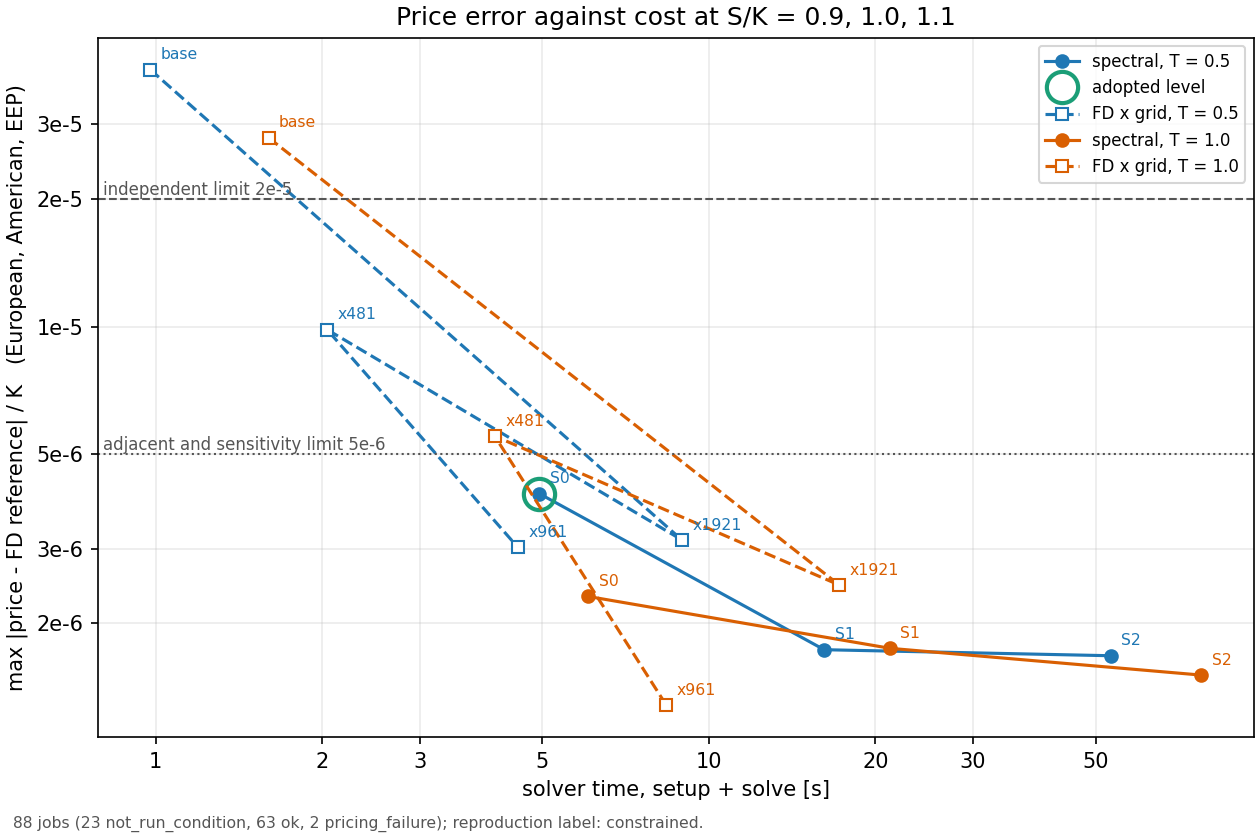
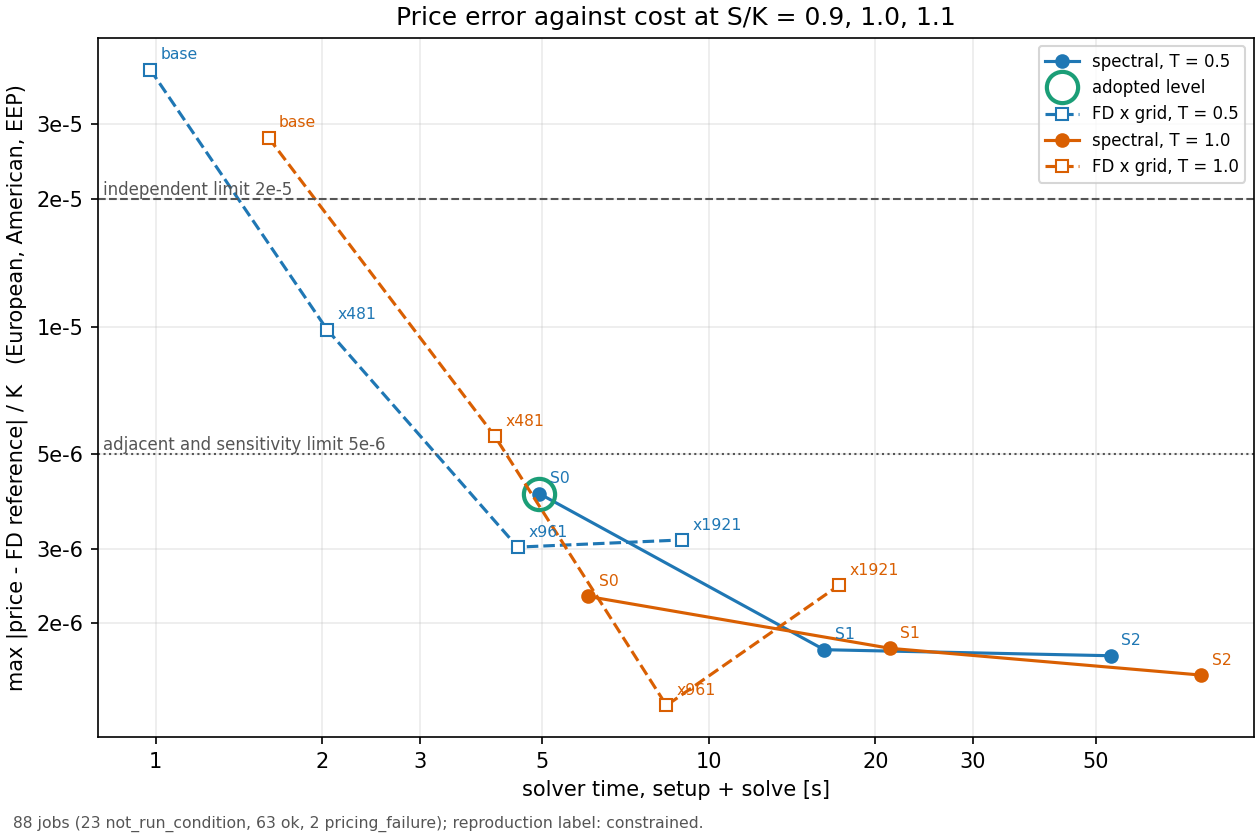
Record the DSINC independent review and fix the cost figure order
The whole-branch review (opus) returned "With fixes" with no Critical finding.
No frozen file (the SOURCE_FILES of run.py) and no computation changed.

- plot.py: order the cost figure's lines explicitly (the FD base grid, then
  481, 961 and 1921 x nodes; the spectral levels S0, S1, S2) and the stability
  figure's rows in protocol order. results.json is saved with sorted keys,
  which had joined the FD x grids as base, 1921, 481, 961. Redraw the cost and
  stability figures; the boundary figure is byte-identical.
- Tests: check the figure orders on results saved with ascending and descending
  keys, and that sensitivities that were not run get no cross mark.
- README: say why T=1 is not achieved (S1 integrates [640,1280] with 12 points),
  that the T=.5 bounds pass depends on the variance grid and the time step, and
  apply the review's small corrections.
- REVIEW.md: the verdict, every finding with its response, the known issues,
  the reviewer's unrecorded measurements and the path to T=1 (D-8).
- ROADMAP, design and plan: status lines, test totals and the scan_spacing claim.

Claude-Session: https://claude.ai/code/session_01Ar2WGjNdqKLuGceywAuPvr

diff --git a/johnhull/research/DSINC/plot.py b/johnhull/research/DSINC/plot.py
@@ -1,9 +1,13 @@
 """Draw the three DSINC figures from the saved results of a main run.
 
 Only ``results.json`` and the arrays it points to are read; nothing is solved or re-judged here.
+``results.json`` is saved with sorted keys, so no order is taken from a saved dict: the lines and
+rows are put in their order here (the ladders of the cost figure, the protocol order of the
+sensitivities).
 
 * ``price_error_cost.png``: the largest price difference to the FD reference against the solver
-  time, for the spectral levels and the finite-difference x grids (log-log, price/K).
+  time, for the spectral levels S0, S1, S2 and the finite-difference x grids (the base grid, then
+  481, 961 and 1921 nodes), log-log, price/K.
 * ``exercise_boundary.png``: the exercise boundary of the judged spectral level against the FD
   bracket of the dedicated fine-time run, with the masked nodes and the failure counts.
 * ``refinement_stability.png``: the difference of every sensitivity, of the next level and of the
@@ -17,6 +21,7 @@ Usage: ``python plot.py --results RUN/results.json --output DIR``.
 import argparse
 import json
 import math
+import re
 import sys
 import textwrap
 from pathlib import Path
@@ -34,6 +39,12 @@ VARIANCE_COLORS = ((0.01, GREEN), (0.04, BLUE), (0.16, ORANGE))
 DISPLAY_FLOOR = 1e-10  # smaller differences are drawn on the left edge of the stability figure
 LOG_TICKS = (1.0, 2.0, 3.0, 5.0)  # labelled ticks of a log axis, times each power of ten
 NO_PRICE = {"color": GRAY, "ms": 9, "mew": 2}  # the grey cross of a check that gave no price
+# The sensitivities in the order of protocol.json (spectral.sensitivities): the rows of the
+# stability figure.  A saved results.json lists them alphabetically.
+SENSITIVITIES = (
+    "crossing_lower", "time_x2", "time_x2_cutoff_x2", "var_next", "points_plus4", "cutoff_x2",
+    "chi_0.25", "chi_0.75", "domain_expand", "offset_plus_half", "offset_minus_half",
+)  # fmt: skip
 
 
 def _tick_text(value: float, _position: int | None = None) -> str:
@@ -84,6 +95,26 @@ def _solver_seconds(row: dict) -> float:
     return (row["setup_seconds"] or 0.0) + (row["solve_seconds"] or 0.0)
 
 
+def _numbered(rows: dict, pattern: str) -> dict:
+    """The rows whose name matches ``pattern`` (one group of digits), by ascending number."""
+    numbers = {name: int(m.group(1)) for name in rows if (m := re.fullmatch(pattern, name))}
+    return {name: rows[name] for name in sorted(numbers, key=numbers.__getitem__)}
+
+
+def _ladders(costs: dict) -> tuple[dict, dict]:
+    """The cost rows of one expiry as two ladders, coarse to fine, in the order a line is drawn.
+
+    The spectral levels come as S0, S1, S2 and the FD x grids as the base grid, then by the number
+    of x nodes (481, 961, 1921).  The dicts of a saved ``results.json`` are in key order, which
+    would join the x grids as base, 1921, 481, 961.
+    """
+    base = {name: row for name, row in costs["fd"].items() if name == "independent-base"}
+    return (
+        _numbered(costs["spectral"], r"S(\d+)"),
+        base | _numbered(costs["fd"], r"independent-x(\d+)"),
+    )
+
+
 def _price_error_cost(verdicts: dict, limits: dict) -> Figure:
     """Price error against solver time: the spectral levels and the FD x grids, per expiry."""
     figure = _new_figure(8.4, 5.6)
@@ -91,13 +122,9 @@ def _price_error_cost(verdicts: dict, limits: dict) -> Figure:
     marked = False
     for index, (expiry, costs) in enumerate(_by_expiry(verdicts["costs"])):
         color = EXPIRY_COLORS[index % len(EXPIRY_COLORS)]
-        x_grids = {
-            name: row
-            for name, row in costs["fd"].items()
-            if name == "independent-base" or name.startswith("independent-x")
-        }
+        levels, x_grids = _ladders(costs)
         for family, rows, marker, line in (
-            ("spectral", costs["spectral"], "o", "-"),
+            ("spectral", levels, "o", "-"),
             ("FD x grid", x_grids, "s", "--"),
         ):
             points = [
@@ -311,7 +338,9 @@ def _refinement_stability(verdicts: dict, limits: dict) -> Figure:
     """The difference of every sensitivity, of the next level and of the reference, with the limits."""
     expiries = _by_expiry(verdicts["selections"])
     checks = [check for _, selection in expiries for check in selection["checks"].values()]
-    names = dict.fromkeys(name for check in checks for name in check["sensitivities"] or {})
+    present = {name for check in checks for name in check["sensitivities"] or {}}
+    names = [name for name in SENSITIVITIES if name in present]
+    names += sorted(present - set(names))  # a sensitivity the protocol does not list goes last
     rows = [(name, "sensitivity") for name in names]
     rows += [("next level (adjacent)", "adjacent"), ("FD reference (independent)", "independent")]
     figure = _new_figure(6.6 * len(expiries), 6.0)
@@ -420,10 +449,6 @@ def draw(results_path: Path, out_dir: Path) -> list[Path]:
     return paths
 
 
-SENSITIVITIES = (
-    "crossing_lower", "time_x2", "time_x2_cutoff_x2", "var_next", "points_plus4", "cutoff_x2",
-    "chi_0.25", "chi_0.75", "domain_expand", "offset_plus_half", "offset_minus_half",
-)  # fmt: skip
 FAILED_SENSITIVITIES = ("crossing_lower", "time_x2")  # the S1 variants without a price at T = 1
 COSTS = (("S0", 3.9e-6, 3.8, 1.2), ("S1", 4.4e-6, 11.1, 6.7), ("S2", 4.9e-6, 29.8, 22.4))  # fmt: skip
 X_GRIDS = (("base", 8.0e-5, 0.2, 0.5), ("x481", 2.5e-5, 0.6, 1.4), ("x961", 7.0e-6, 1.4, 3.0), ("x1921", 1.5e-6, 3.1, 5.6))  # fmt: skip

diff --git a/johnhull/hullkit/tests/test_dsinc_runner.py b/johnhull/hullkit/tests/test_dsinc_runner.py
@@ -368,6 +368,8 @@ def test_stability_figure_tells_a_failed_check_from_sensitivities_not_run(tmp_pa
     assert not any("no price" in text for text in legends[0])
     assert "no price (pricing_failure)" in legends[1]  # ran without a price: a grey cross
     assert not any("not run" in text for text in legends[1])
+    drawn = [line for line in left.lines if line.get_marker() == "x" and len(line.get_xdata())]
+    assert not drawn  # nothing at T = 0.5 ran without a price: sensitivities not run get no cross
     rows = [text.get_text() for text in right.get_yticklabels()]
     crosses = [line for line in right.lines if line.get_marker() == "x" and len(line.get_xdata())]
     assert sorted(line.get_ydata()[0] for line in crosses) == pytest.approx(
@@ -392,6 +394,33 @@ def test_boundary_and_cost_figures_label_what_they_draw(tmp_path):
     for axis, (low, high) in ((cost.xaxis, cost.get_xlim()), (cost.yaxis, cost.get_ylim())):
         ticks = [t for t in axis.get_majorticklocs() if low <= t <= high]
         assert len(ticks) >= 4  # enough labelled ticks to read a value off a log axis
+
+
+def test_figure_orders_do_not_depend_on_the_key_order_of_saved_results(tmp_path):
+    plot = load(PLOT, "dsinc_plot_order_tests")
+    saved = json.loads(plot.synthetic_results(tmp_path).read_text())
+    protocol = json.loads((PLOT.parent / "protocol.json").read_text())
+    sensitivities = protocol["spectral"]["sensitivities"]
+    assert list(plot.SENSITIVITIES) == sensitivities  # the rows follow the protocol
+    text = json.dumps(saved, sort_keys=True)  # run.py saves results.json with sorted keys
+    ladder = [f"independent-{name}" for name, *_ in plot.X_GRIDS]  # base, x481, x961, x1921
+    for hook in (dict, lambda pairs: dict(reversed(pairs))):  # keys ascending, then descending
+        loaded = json.loads(text, object_pairs_hook=hook)
+        verdicts, limits = loaded["verdicts"], loaded["thresholds"]
+        assert list(verdicts["costs"]["0.5"]["fd"]) != ladder  # the saved order is not the ladder
+        cost = plot._price_error_cost(verdicts, limits).axes[0]
+        lines = {line.get_label(): line for line in cost.lines}
+        for scale, expiry in ((1, "0.5"), (2, "1.0")):
+            fd, spectral = lines[f"FD x grid, T = {expiry}"], lines[f"spectral, T = {expiry}"]
+            assert list(fd.get_xdata()) == pytest.approx([s + t for _, _, s, t in plot.X_GRIDS])
+            assert list(fd.get_ydata()) == pytest.approx([e * scale for _, e, _, _ in plot.X_GRIDS])
+            assert list(spectral.get_xdata()) == pytest.approx(
+                [scale * (s + t) for _, _, s, t in plot.COSTS]  # S0, S1, S2
+            )
+            assert list(spectral.get_ydata()) == pytest.approx([e for _, e, _, _ in plot.COSTS])
+        stability = plot._refinement_stability(verdicts, limits).axes[0]
+        rows = [label.get_text() for label in stability.get_yticklabels()]
+        assert rows == [*sensitivities, "next level (adjacent)", "FD reference (independent)"]
 
 
 def job_of(roster, method, level, variant, expiry):

diff --git a/johnhull/research/DSINC/REVIEW.md b/johnhull/research/DSINC/REVIEW.md
@@ -1,0 +1,126 @@
+# DSINC 全体の独立レビュー
+
+2026-10-27。branch `claude/dsinc-american` の全体を、opus が独立にレビューした（[実施計画](../../docs/superpowers/plans/2026-10-25-dsinc-american.md)のTask 8のStep 6にあたる）。レビュアーは実装者とは別のagent（opus）で、差分・run root・README・台帳を読み、一部を作業用に再計算した。
+
+- 範囲：`cb39e4d5669fb85416cc77228e85aa309b4904c1..9b45bb82ad21607d33c94f8d7e5ca0e75e180ba2`。`cb39e4d5`はmainで、`9b45bb82`はmainの結果とREADMEの是正まで。
[1 lines of base64/hex data omitted]
+- 主run root：`/home/kazumasa/projects/_data/johnhull/DSINC/main-20261027T001446Z`。通ったpilot：`/home/kazumasa/projects/_data/johnhull/DSINC/pilot-20261026T235315Z`。どちらもGit管理外で、レビューも修正も読むだけで、書き換えていない。
+
+## 判定
+
+**With fixes**。致命的な指摘は0件、重要な指摘は3件、軽微な指摘は14件。凍結ファイル（`run.py`の`SOURCE_FILES`）の変更も、spectral・FDの再計算も要らない。直したのは、(1)費用の図のFDの線の順、(2)READMEの説明不足2点、(3)小さな文書の不一致である。修正はこの文書と同じコミットに入っている。
+
+## レビューが再確認したこと
+
+- 数式：減衰変換k=−ω−iχ、min(1,e^x)の変換−1/(s(1+s))と留数項、g·1{x≤b}−rdの変換、EEPの再帰（t_Nは半重み、t_0は重みなし、端点dt·g/4は境界の式だけ）、残差R_n。独立に導出して、実装と一致した。
+- 根探し：計画のTask 5の擬似コードどおり（幅.1・.2・.3・.5、δ、最上位の+→−交差、ambiguous_contact、wrong_orientationで停止）。
+- 独立FD：IE半歩4回＋CN、LU 1回、Ikonen–Toivanen。spectral側をimportしない。
+- gates：純関数。D-3の参照、軸の収束、境界gate、D-7の`select_level`は計画どおり。
+- 再現性：mainの`replay`は`{"match": true, "differences": []}`。`verify_freeze`はリポジトリとrun rootの両方のmanifestでOK（`d3685d17…`）で、`freeze_sha256`が一致。`results/results.json`はrun rootの`results.json`とバイト一致（export）。`SOURCE_FILES`は`7551a37f`から不変で、上流のhashもmanifestどおり。pilotとmainに共通のjob 28件は、価格28件と配列18組がどちらも一致。0化の有無で、S0のT=.5・T=1の配列とタイミング以外の診断がビット一致。
+- 判定の再計算：recordsから再計算して一致した。`reproduction_label`は`constrained`、paper_matchの最大差は3.43e-7。T=.5はS0を採用（隣の段2.31e-6、独立FD 4.04e-6、感度2.23e-6、上下界の最小-1.54e-5・S/K=0.832）。T=1は採用なし。境界gateは両満期でpass（1.027セル・3888節点、0.511セル・7728節点）。FDのずれ1.0000000000000675は、上限1に許容1e-9を足した範囲の内。88件はok 63、`not_run_condition` 23、`pricing_failure` 2。jobのwall合計は781.8秒で、okの実測は見積もりの0.37〜0.87倍。
+- 文書とテスト：READMEの約40か所の数値と、費用表のFDの行が一致。DSINCのテスト137件、`test_docstrings.py`と`test_model_index.py`の933件、`ruff check`・`ruff format --check`は、レビュー時点でクリーン。
+
+## 指摘と対応
+
+対応の区分：**修正**はこのコミットで直した、**文書**はREADMEなどに書いた（コードは変えない）、**既知**は直さずに記録した。
+
+### 重要
+
+| # | 指摘 | 対応 | 場所 |
+| --- | --- | --- | --- |
+| 1 | 費用の図でFDのx格子の線が誤った順（base→1921→481→961）に結ばれていた。`results.json`は`sort_keys=True`で保存されるので、dictの順がアルファベット順になる。READMEの説明（base、481、961、1921）とも合わず、テストでも検出できなかった。 | **修正**。FDはbaseの次にx節点数の昇順、spectralはS0・S1・S2の順に、`plot.py`で明示した。`plot.py`のdict順への依存を監査し、細分の図の行（感度の名前）も同じ原因でアルファベット順だったので、protocolの順にした。ほかの反復は`sorted`・リテラルのtuple・キー参照で、順に依存しない。`sort_keys=True`で保存した合成の結果で線と行の順を検査するテストを足した。3枚のPNGを`results/results.json`から描き直した（境界の図はバイト一致のまま、費用の図と細分の図が変わった）。run rootの`results.json`から描いても、3枚ともバイト一致。 | `plot.py:44-48`（`SENSITIVITIES`）、`:98-115`（`_numbered`、`_ladders`）、`:125`、`:342-343`。`test_dsinc_runner.py:399`。`figures/`。README「図」（:283-:295） |
+| 2 | T=1の失敗の原因（S1が[640,1280]のパネルを12点で積分すること）がREADMEに書かれていない。load-bearing：yes（T=1の判定を決める）。ただし設計どおりの値で、凍結コードの欠陥ではない。 | **文書**（再実行なし）。仕組み、recordsの5つのjobの多重交差と交差の距離、14件がすべて12点の[640,1280]のパネルを持つこと、S1−S2の差とそのうち16点で消える分を、run rootの記録から再計算して書いた。D-1の影響は、S0は確かめた（crossing_lowerの差は0）、S1は未確認（jobの失敗）と書き分けた。Ruling T7R-bの「load-bearingなら再実行」は、機械的には当てはめない：設計の値の帰結で、欠陥ではない。変えるなら新しい逸脱（D-8）で、ユーザーの承認とpilot→freeze→mainのやり直しが要る（Ruling F-a・F-b）。 | README「T=1が未達になる理由」（:197-:217）、「未検証の範囲」のT=1（:301）と多重交差（:313）。「T=1への道」は下記 |
+| 3 | T=.5の上下界のpassが分散格子の位置に依存するが、書かれていない。D-7は各段のbase jobにだけ上下界を当てる。 | **文書**。S0のT=.5の変種に`gates.bounds_check`を記録の価格で当て直し、offset_plus_half・offset_minus_halfが-2.606e-5（S/K=0.834、許容超え）、baseが-1.539e-5、time_x2が-7.10e-6、points_plus4が不変であることを書いた。T=.5の余裕は0.46e-5で、v0への補間のほか、分散格子の位置と時間刻みにも依存する。判定は変わらない。レビューが挙げた5.3e-10はoffset_plus_halfの値で、offset_minus_halfは5.76e-10。レビューが挙げていないvar_next（T=.5で-1.88e-5、許容との差1.2e-6）とT=1の変種（time_x2 -1.30e-5、var_next -1.76e-5は通る）も、同じ手順で再計算して足した。 | README :185、「未検証の範囲」の「境界近傍のspotでの補間誤差」（:303-:310） |
+
+### 軽微
+
+| # | 指摘 | 対応 | 場所 |
+| --- | --- | --- | --- |
+| 1 | READMEの「診断の全出力がビット一致」はタイミングの診断を含めると不成立。0化の時間は作業用の計測で、run rootにない。「0にして保存する」はディスクへの保存に読める。 | **修正**。「タイミング以外の診断」、「作業用の計測（記録なし）」と書き、「0に置き換え、以後の計算にはこの行列を使う」にした。 | README :55 |
+| 2 | README「783秒」はcontrollerの作業用ログにしかない。 | **修正**。781.8秒（`accounting.wall_seconds`）を残し、783秒はrunnerが画面に出した値で記録にないと書いた。 | README :78 |
+| 3 | 「独立レビューはこの後」が古い。 | **修正**。レビュー済み（With fixes）と、この文書へのリンクにした。 | README :5。設計の状態行、計画の状態行も同様 |
+| 4 | Deltaの幅4.1e-7がどのspotか書かれていない。 | **修正**。S/K=.9の値で、S/K=1と1.1ではspectralが2.0e-6と2.0e-6（FDも2.0e-6と2.0e-6）と書いた。 | README :302 |
+| 5 | ROADMAPのDSINCのテスト件数と全体の件数が古い。 | **修正**。全体のsuiteを修正後に走らせて、件数を写した。レビュー済みと、次はユーザーの統合の判断と任意のD-8であることも書いた。 | `ROADMAP.md` :26、:120 |
+| 6 | 未実行の感度に×を描く変異が、既存のテストで生き残る。 | **修正**。左のパネルに×の線がないことを検査した。`if name not in found: continue`を外して欠けた値をなしとして描く変異は、追加前のテストでは通り、追加後は落ちる。 | `test_dsinc_runner.py:371-372` |
+| 7 | 設計§1の「着手済みと扱わない」に、2026-10-25時点という限定がない。 | **修正**。2026-10-25時点の依頼範囲と、実装が2026-10-26に始まったことを足した。 | 設計 :7 |
+| 8 | 計画の「従来どおり」に指す先がない。 | **修正**。直前の提案の規則（False・欠落・Noneは不合格）を指すようにした。 | 計画 :108 |
+| 9 | 計画の「δはm点則より常に細かい」は誤り。 | 計画の文は**修正**。コードは**既知**。最初のbracketが0で切られてhi−loが.1をわずかに超えると、δはS1で最大1.22%、S2で最大0.61%粗い（最上位の節点をω_maxとすると0.75%と0.35%）。S0は影響なし。この数値は`protocol.json`のS1・S2の設定とGauss–Legendreの節点から再計算した。コード（`_dsinc_american.py:116-121`）は凍結で、load-bearing：no（下記「レビュー時の作業用の計測（記録なし）」の最後の項目）。 | 計画 :1230 |
+| 10〜14 | 下記「既知の項目」 | **既知** | 下記 |
+
+## 既知の項目（修正しない）
+
+凍結ファイルは、Ruling T7R-bにより、load-bearingでなければ直さない。以下はどれも、判定にも、READMEの数値にも影響しない。
+
+### 最終レビューの軽微な指摘 10〜14（凍結ファイル）
+
+- 10：`run.py:1550-1567`の`replay`は、protocolと配列のhashは照合するが、`SOURCE_FILES`のhashと`freeze_sha256`は照合しない。`verify_freeze`で別に確認した。
+- 11：`run.py:478-484`、`:779`。RSSは事後の`ru_maxrss`で判定する。最大は688 MiB、上限は2 GiBで、超過は起きていない。
+- 12：境界gateの`max_root_residual`は、二分法の受理条件で上限が決まる量で、独立な検査ではない（台帳:102と同じ）。独立にするには、根で価値一致を`inverse_sum`から評価し直す。
+- 13：`run.py:1335`。T=1の`independent_validated.boundary`の`"pass"`は、採用されていないS0の値である。READMEの「判定の要約」と「境界gate」に、採用段ではないと書いた。
+- 14：T7R-dの凍結docstringの細部。`gates.py:241-243`（「, which names the level」の読み方があいまい）、`gates.py:221`（注釈がdictで、Mappingではない）、`_dsinc_spectral.py:226-227`（測定した1つの場合を、条件を付けずに述べている）。
+
+### 台帳から持ち越した項目（トリアージはkeep as known）
+
+行番号は[台帳](../../../.superpowers/sdd/2026-10-25-dsinc-american/progress.md)のもの。
+
+- :59 `test_dsinc_types.py`：expiry=0・rf=0の受理、listからtupleへの変換、`canonical_digest`のndarrayとNumPyスカラの枝、`FAILURE_CODES`と`PricingResult`のフィールド名を固定するテストがない。
+- :68〜:72 `heston_baseline.py`：(:68)出力の一部・clip_low・許容での停止・safe_nanの非有限側にテストがない。(:69)referenceのkeyの検証が両solverを走らせた後（:318-327、呼び出し:440）。(:70)上流`_heston_cf`の|lam1|<1e-12の置換を数えていない。(:71)カウンタの意味がレポートにしかない。(:72)adapterがT=0でValueErrorにし、`dsinc.extremes`を足す（ブリーフのkey一覧との差）。診断専用で、判定に使わない。
+- :75 計画の件数：Ruling T2-bでTask 2が17件になり、計画の「残りの14件」「16」「99」が古い。
+- :76 `heston_baseline`のdrift guardは、`# audit`の行そのものと、他の上流メソッドの新しいoverrideを見ない。
+- :81・:82 Task 3のテスト：追加分（非一様・2次元の格子の拒否、fixtureの配列、expiry=0のbuild、読み取り専用の配列、T=0でpropagatorsを渡す場合）にテストがない。`test_european_rejects_bad_inputs`に`match=`がなく、strike=100のケースは例外が出ないことしか見ない。
+- :89〜:91 FDのテスト：障害物のテストの断言が構成上ほぼ真で、厳密なamerican > europeanがない。`left`（x_min側だけと結合する最初の内部行の残差）とブリーフを超えた検証にテストがない。FDの解に`isfinite`の検査がない（NaNは伝わるが、gateが落とす。全FD jobはok）。`reference_fd.py:117`・`:240`が100字を超える。`size`が2つの意味で使われる（:236、:336）。
+- :97 `scan_spacing`のコード（`_dsinc_american.py:116-121`）：δがm点則より粗くなる場合がある（上のMinor 9）。計画の文は直した。
+- :98 S1・S2の多重交差の数：計画のD-1の数（3,016と3,861）と実装の数（T=.5で3,371と5,253）が違う。最大のvは1.87e-3と3.02e-3で、窓の下限0.01より下。S0は一致する（58）。S1・S2の数は、重要な指摘2の雑音で決まる。
+- :102 境界の根の残差が独立でない（上のMinor 12）。
+- :103 見積もりの範囲：同一設定の見積もりは、同じプロセスの中のsetup+solve（計画の式）で、インタプリタの起動・import・保存を含まない。S2のT=1の見積もり152秒は、見積もりの上限180秒まで約15%の余裕。実測は見積もりの0.37〜0.87倍だった。
+- :104 のうちNaN・Infが0化で触れられないことを固定するテストがない（READMEの部分はMinor 1、docstringはT7R-aで直した）。
+- :105・:106 `_dsinc_american`：一部だけ失敗するスライス、空のspots、`premium_with_boundary`の形の検査、`crossing="lower"`の通し、nonfiniteがambiguousより上位であること、bracket端と二分法での非有限、`_SliceResidual`と`inverse_sum`の一致にテストがない。`premium_with_boundary`が契約とpropagatorsの整合（dt·n_timeとexpiry）を検査しない。スライスごとに`at`の呼び出しが1回余る（:540）。ruffが折り返した行末コメントがある。
+- :117 `gates.py`：追加分（`root_failure_in_window`、`fd_unconfirmed`、`no_targets`、`paper_match`が全部`not_available`のときのValueError、`bounds_check`の`*_spot`キー、`select_level`のNone・非有限の経路、`axis_convergence`の`order_out_of_range`）にテストがない。数値の文字列が`max_root_residual`の検証を通る。`select_level`の型ヒントがdocstringより狭い。`axis_convergence`のh検査が最初の要素だけを読む。`fd_reference`のndim検査は何もしない。`boundary_gate`のreasonsがpassでも空でないことがある（geometry_invalid）。判定は再計算で一致した。
+- :125 `plot.py`が`gates`の`_edge_at`と幾何maskを複製している（図だけがずれる危険）。ほかに、子プロセスがrootを`--out`の2階層上から決めて`<root>/jobs`を確かめない（`run.py:1585`）、採用段がないときにS0の境界の配列を書き出す（図に必要）、`freeze_manifest.json`と`pilot_summary.json`がcompact JSONで1行、T6-bの147点bounds・`independent_validated`・`nonmonotone_effect`・`reproduction_label`の組み立て・`evaluate("pilot")`・`basis()`・`not_run_condition`だけの場合・実サブプロセスの`pricing_failure`のテストがない、1.0秒のfixture wallが負荷で不安定になりうる（`test_dsinc_runner.py:97`）、`plot.py`に100字を超える`# fmt: skip`の行がある、感度のpanelのリストをaliasで書き換える（`run.py:189, 200, 210`）。
+- :129 freeze周り：`source_sha256`のないsummaryは照合されない（CLIのsummaryには必ず付く）。hashをrosterの後に取るので、600秒以内のpilot中の編集は見つからない。`try`が`_record`も囲むので、`_record`の不具合がlauncherの失敗として報告される。
+- Parked 7R #6：S1の条件付き感度は、S1が上下界でも落ちるときも走る（予算だけの問題。D-5は変えない）。#7：runnerのテストが`arrays=None`を使う（boundsは記録の価格だけで決まる）。
+- T7R-d：凍結docstringの細部（上のMinor 14）。
+- T1-a：`51a79a3c`のトレーラーが、Sonnetが書いたコミットにOpusの行を付けている。直すには履歴の書き換えが要り、ユーザーの承認事項。
+
+台帳のほかの項目は、直した、または解決済みである：:60は設計:7（Minor 7）、:61・:83はT7R-a、:84・:160は先のコミット、:175の5項目はMinor 1〜6。
+
+## レビュー時の作業用の計測（記録なし）
+
+レビュアーが、凍結したモジュールをimportし、1パネルの点数だけを変えて行った計測である。run rootにもリポジトリにも記録がない。値はレビューの報告から写したもので、このコミットでは再計算していない。READMEとROADMAPの数値には使わない（READMEは、recordsから再計算できる値だけで書き、この節を指す）。
+
+- 節点0（v=2.0e-4）の最初の歩で、R(−0.1)=−1.5e-5、R(−0.2)=−1.1e-4。bracketの下端でRが負になる（正でなければならない）。
+- bracketの幅が0.3まで広がり、そこに43個の交差がある。
+- `crossing_lower`は遠い交差（−0.294、次に−0.589）を選び、3歩目で59節点が`wrong_orientation`になる。
+- `time_x2`は、採用した根より0.125下の、雑音による零の連続で`ambiguous_contact`になる。
+- 24点・48点で再計算すると、失敗した2本（`crossing_lower`、`time_x2`）はどちらも完走した。baseは12節点・spread 0.0037、`time_x2`は248節点・0.0135。`time_x2`とbaseの価格差は最大5.3e-7。24点と48点のどちらの値かは、レビューの報告に分けて書かれていない。
+- 走査格子をずらしても、`crossing_lower`の失敗は再現した。失敗の原因は、走査の刻みδの粗さではない（Minor 9のload-bearing：noの根拠）。
+
+## 判断しなかったこと（レビュアーが範囲外とした項目）
+
+- 論文PDFの式との一字一句の対応。独立導出と、表との照合（最大差3.43e-7）で確認した範囲に限る。
+- 閾値とD-1〜D-7の妥当性（ユーザー承認済み）。
+- 上流Heston監査の網羅性。
+- 全体テストの再実行。
+- `ru_maxrss`のLinux以外での意味。
+- 上流コードのMITライセンス。
+- Codex側のbranch（Ruling P1）。
+- パラメータの経済的な意味。
+- 速度の主張（READMEは速度を主張していない）。
+- v0補間の代替案で、境界近くの上下界のdipが消えるか。
+- S1を16点・24点に変えたときに、T=1の全gateが通るか。計算したのは、失敗した2本とbaseだけである。
+
+## T=1への道（ユーザーの判断）
+
+- T=1の未達は、凍結した規則の下での正しい判定である。規則・閾値・根探しを変えて通すことはしない。T8-cで最後に示す予定だった「根探しの変更」は、雑音から決まった根をそのまま通すことになるので、示さない（Ruling F-b）。
+- 通すには、S1の1パネルの点数を増やす（D-8、案。例：12→16または24）。設計§6のS1の設定の変更なので、新しい逸脱で、ユーザーの承認が要る。承認後に、pilot→freeze→mainをやり直す（READMEの「再実行」：pilot約5分、main約13分。S1の費用は点数とともに増えるので、mainの予算30分に収まるかは、新しいpilotの見積もりで決まる）。
+- 手がかり：recordsでは、S1を16点にしたjob（points_plus4、T=1）の交差の距離は0.098で、12点の0.293より小さい。作業用の計測では、24点・48点でbaseの距離が0.0037になった。
+- 確かめていないこと：16点・24点のS1が、T=1の全gate（隣の段、参照、感度11本、上下界）を通るか。通らなければ、D-8でもT=1は未達のまま残る。
+
+## このコミットでの確認
+
+- 費用の図のFDの線：`sort_keys=True`で保存した合成の結果で、旧`plot.py`では線がbase、1921、481、961の順になって落ちる。修正後は通る。細分の図の行がprotocolの順になることも、同じテストで見る。
+- 3枚のPNGは、`results/results.json`とrun rootの`results.json`のどちらから描いても、バイト一致した。境界の図はこのコミットの前後でバイト一致で、費用の図と細分の図が変わった。
+- DSINCのテスト（7ファイル）：138 passed（types 33、baseline 17、spectral 22、reference 11、american 18、gates 15、runner 22）。`test_model_index.py`と`test_docstrings.py`：933 passed。
+- 全体：`pytest -q johnhull/hullkit/tests johnhull/report/tests`（RB-F04の`test_paths_match_the_rbf04_v1_simulators_at_every_observation`、`test_local_tangent_matches_a_finite_difference_of_the_scheme`、`test_small_run_hedges_better_with_more_frequent_rebalancing`の3件を`--deselect`。gitignoredな`reference.npz`がmainのcheckoutにしかない：Ruling P2）は、7880 passed、6 skipped、3 deselected、442.75秒。
+- `ruff check`と`ruff format --check`は、変更したPythonファイル（`plot.py`、`test_dsinc_runner.py`）で問題なし。`git diff --check main...HEAD`は空白の警告なし。
+- `SOURCE_FILES`は、このコミットで変えていない（`git diff --name-only 9b45bb82 HEAD`に含まれず、10本のhashはpilotが記録した値と一致する）。

diff --git a/johnhull/docs/superpowers/plans/2026-10-25-dsinc-american.md b/johnhull/docs/superpowers/plans/2026-10-25-dsinc-american.md
@@ -10,7 +10,7 @@
 
 **Spec:** [2026-10-25-dsinc-american-design.md](../specs/2026-10-25-dsinc-american-design.md)。本計画は設計からの逸脱D-1〜D-7を記録する（§1。D-6・D-7はpilotが判断点で止まった後に追加した）。
 
-**状態（2026-10-27）:** 計画を2026-10-26に全面改訂した。旧版は概要版で、Opus承認時のsha256は677bfdb2…、承認後の追記版は2ba13c82…。D-1〜D-5は2026-10-26にユーザーが承認した（改訂版のOpus再レビューなし）。設計本文への反映はTask 1で行った。実装は2026-10-26に始まり、Task 1〜6は完了した。Task 7のpilotは2026-10-26に判断点で止まった（`mandatory_jobs_ok`だけが落ち、S0のdomain_expandが根のbracket幅の外で`missing_sign_change`になった。S0のT=1ではboundsも不合格）。ユーザーは2026-10-27にD-6・D-7を承認し、実装した（Task 7R）。pilotは2026-10-27にやり直して通り（UTC 2026-10-26 23:53のrun、42件すべてok）、mainのprotocolをfreezeした（Task 7は完了）。mainは2026-10-27に実行した（88件、jobのwall合計781.8秒。T=.5はS0を採用、T=1は採用段なし、`reproduction_label`は`constrained`）。次は独立レビュー（Task 8のStep 6）。実行方法はsubagent-driven。[レビュー記録](../reviews/2026-10-25-dsinc-american-opus.md)。
+**状態（2026-10-27）:** 計画を2026-10-26に全面改訂した。旧版は概要版で、Opus承認時のsha256は677bfdb2…、承認後の追記版は2ba13c82…。D-1〜D-5は2026-10-26にユーザーが承認した（改訂版のOpus再レビューなし）。設計本文への反映はTask 1で行った。実装は2026-10-26に始まり、Task 1〜6は完了した。Task 7のpilotは2026-10-26に判断点で止まった（`mandatory_jobs_ok`だけが落ち、S0のdomain_expandが根のbracket幅の外で`missing_sign_change`になった。S0のT=1ではboundsも不合格）。ユーザーは2026-10-27にD-6・D-7を承認し、実装した（Task 7R）。pilotは2026-10-27にやり直して通り（UTC 2026-10-26 23:53のrun、42件すべてok）、mainのprotocolをfreezeした（Task 7は完了）。mainは2026-10-27に実行した（88件、jobのwall合計781.8秒。T=.5はS0を採用、T=1は採用段なし、`reproduction_label`は`constrained`）。独立レビュー（Task 8のStep 6）は2026-10-27に受け、判定はWith fixes（致命的な指摘は0件）で、指摘は同日のコミットで直すか記録した（[REVIEW.md](../../../research/DSINC/REVIEW.md)）。次はユーザーによる統合の判断（Step 8）。任意で、T=1のためのD-8（S1の1パネルの点数を増やし、pilot→freeze→mainをやり直す案）がある。実行方法はsubagent-driven。[レビュー記録](../reviews/2026-10-25-dsinc-american-opus.md)。
 
 ## 0. 計画前に確かめたこと
 
@@ -105,7 +105,7 @@
 - 設計§6: 最初の隣接差≤5e-6、独立FD差≤2e-5、個別感度gate成立を満たす粗い側を採用する。上下界は`gates.bounds_check`の5つで、American≥European、American≥payoff、American≤K、Europeanの下限max(e^{−rd·T}−(S/K)e^{−rf·T}, 0)と上限e^{−rd·T}。これらは、採用した後の価格検証（`independent_validated`）でだけ見ていた。許容は`protocol.json`の`thresholds.bounds`（2e-5·K）で、`bounds_check`が5つすべてに適用する。設計§5の94行目と計画§2が2e-5を述べているのは、3つのAmerican側（American≥European、American≥payoff、American≤K）だけである。計画のTask 6は`select_level(levels, reference, sensitivities, thresholds)`を`bounds`なしの形で定め、そのテストもこの形で書いた。D-7はこれを置き換える（Task 6の本文のシグネチャとテストは書き換えない）。
 - 証拠（pilotの検査項目ではない）: S0のT=1では、走査点S/K≈0.8でAmerican−payoffの最小が−2.36e-5で、許容2e-5を超える（Task 5で測り、2026-10-26のpilotも同じ値）。同じT=1で、S1は−8.3e-6、S2は−4.8e-6（Task 5の実測、走査126点）。T=.5のS0は−1.54e-5で通る。従来の規則ではT=1でS0が採用されて価格検証が不合格になり、S0が採用されるのでS1のT=1の感度は走らない（D-5）。計画§2の独立gateには上下界が含まれており、段の採用もその読みに揃える。
 - 提案（2026-10-27にユーザーが承認）: `gates.select_level(levels, reference, sensitivities, thresholds, *, bounds=None)`とする。`bounds`は段名（S0, S1）→その段の上下界の合否（bool）のdictで、与えられたとき、候補の段の値がTrueでなければ（False・欠落・None）その候補は不合格にする。結果は`checks[level]["bounds"]`に残す。予算で感度が未実行の段を待たせる扱い（`not_achieved_budget`）は従来どおりで、上下界で落ちた候補は待たせない。`bounds=None`なら従来どおり。runnerのmainでは、各満期でS0・S1のbase jobが価格を出した全spot（主3＋bump 18＋走査126の147点）に`gates.bounds_check`を適用し、その`pass`を`bounds`として渡す。base jobが価格を出していない段はFalse。条件付きジョブの判定（`condition_met`が読む途中の選択）も同じ規則で作る。
-- 実装の細部（Task 7Rのレビューで2026-10-27に追加した。ユーザーが承認した内容には含まれない）: `select_level`は、`bounds`が与えられてmappingでなければ、またS0・S1の値がbool（`numpy.bool_`を含む）でもNoneでもなければ、ValueErrorにする（`gates.py`の規則：解釈できない引数はValueError）。欠落とNoneは従来どおり不合格にする。
+- 実装の細部（Task 7Rのレビューで2026-10-27に追加した。ユーザーが承認した内容には含まれない）: `select_level`は、`bounds`が与えられてmappingでなければ、またS0・S1の値がbool（`numpy.bool_`を含む）でもNoneでもなければ、ValueErrorにする（`gates.py`の規則：解釈できない引数はValueError）。欠落とNoneは、直前の提案の規則（False・欠落・Noneは不合格）どおり不合格にする。
 - 影響: 厳格化（採用の条件が増える）。許容2e-5は変えない。pilotのestimatesでは、T=.5でS0、T=1でS1を採用した場合の必須と条件付きの合計は約1733秒（予算1800秒）。条件付きジョブは、その時点の残り予算に収まる見積もりのときだけ走る（D-5、変更なし）。
 
 ## 2. Global Constraints
@@ -1227,7 +1227,7 @@ def premium_with_boundary(contract: PutContract, propagators: Propagators, log_b
 def american_put(contract, model, spots, config, *, propagators: Propagators | None = None) -> PricingResult
 ```
 
-`scan_spacing`の刻みδは、設計§4のm点則（各bracketでm=max(65, ceil(2ω_max(hi−lo)/π)+1)点）より常に細かい。hi−lo≥root_widths[0]かつω_max≤panels[−1]なので、(hi−lo)/(m−1)≥δになる。
+`scan_spacing`の刻みδは、設計§4のm点則（各bracketでm=max(65, ceil(2ω_max(hi−lo)/π)+1)点、刻み(hi−lo)/(m−1)）より常に細かいわけではない。S0はδ=root_widths[0]/64で、m点則の刻み以下になり、影響を受けない。S1・S2はδ=π/(2·panels[−1])で、ceilの切り上げが効く：最初のbracket（半幅.1）が0で切られてhi−loが.1をわずかに超えると、m点則の刻みがδを下回り、δのほうが粗くなる。粗くなる割合は、ω_maxをcutoffとしてS1で最大1.22%、S2で最大0.61%（最上位の節点をω_maxとするとS1で0.75%、S2で0.35%）。コード（`_dsinc_american.py:116-121`）は凍結済みで変えない。既知の点として[REVIEW.md](../../../research/DSINC/REVIEW.md)に記録した。
 
 `PricingResult.diagnostics`のkey:
 - `boundary_status`（"ok"または"not_applicable"）、`status_counts`、`multiple_crossings_max_variance`、`max_crossing_spread`、`scan_spacing`、`max_root_residual`

diff --git a/johnhull/docs/superpowers/specs/2026-10-25-dsinc-american-design.md b/johnhull/docs/superpowers/specs/2026-10-25-dsinc-american-design.md
@@ -1,10 +1,10 @@
 # DSINCによるAmerican putの数値再現 — 設計
 
-更新日: 2026-10-27（JST）。状態: **実装中（branch `claude/dsinc-american`）。Task 1〜7完了。2026-10-26のpilotは判断点で止まり、D-6・D-7を2026-10-27に承認した。pilotは2026-10-27にやり直して通り（UTC 2026-10-26 23:53のrun）、freezeした。mainは2026-10-27に実行済み（88件、jobのwall合計781.8秒。T=.5はS0を採用、T=1は採用段なし、reproduction_label=constrained）。次は独立レビュー**。Opus承認後、§5/§6に論文Table 3(b)/4の印刷値を照合対象として追加した（[レビュー記録](../reviews/2026-10-25-dsinc-american-opus.md)の「Opus承認後の追加照合と変更」）。2026-10-26、[実装計画](../plans/2026-10-25-dsinc-american.md)を完全版に改訂し、§4〜§6からの逸脱D-1〜D-5を提案した（計画の§1。根拠の実測もそちら）。D-1〜D-5は同日ユーザーが承認し、本文の§4〜§6へ反映した（計画のTask 1。反映箇所は「逸脱D-n」と明記）。改訂版のOpus再レビューはない。2026-10-26のpilotが判断点で止まった後、D-6（根を探す幅に予備の.5）とD-7（上下界を通らない段は採用しない）を2026-10-27にユーザーが承認し、§4の幅の規則と§6の段の選択へ反映した（計画のTask 7R。根拠は計画の§1）。
+更新日: 2026-10-27（JST）。状態: **実装中（branch `claude/dsinc-american`）。Task 1〜7完了。2026-10-26のpilotは判断点で止まり、D-6・D-7を2026-10-27に承認した。pilotは2026-10-27にやり直して通り（UTC 2026-10-26 23:53のrun）、freezeした。mainは2026-10-27に実行済み（88件、jobのwall合計781.8秒。T=.5はS0を採用、T=1は採用段なし、reproduction_label=constrained）。独立レビュー（Task 8のStep 6）は2026-10-27に受け、判定はWith fixes（致命的な指摘は0件）で、指摘は同日のコミットで直すか記録した（[REVIEW.md](../../../research/DSINC/REVIEW.md)）。次はユーザーによる統合の判断。任意で、T=1のためのD-8（S1の1パネルの点数を増やし、pilot→freeze→mainをやり直す案）がある**。Opus承認後、§5/§6に論文Table 3(b)/4の印刷値を照合対象として追加した（[レビュー記録](../reviews/2026-10-25-dsinc-american-opus.md)の「Opus承認後の追加照合と変更」）。2026-10-26、[実装計画](../plans/2026-10-25-dsinc-american.md)を完全版に改訂し、§4〜§6からの逸脱D-1〜D-5を提案した（計画の§1。根拠の実測もそちら）。D-1〜D-5は同日ユーザーが承認し、本文の§4〜§6へ反映した（計画のTask 1。反映箇所は「逸脱D-n」と明記）。改訂版のOpus再レビューはない。2026-10-26のpilotが判断点で止まった後、D-6（根を探す幅に予備の.5）とD-7（上下界を通らない段は採用しない）を2026-10-27にユーザーが承認し、§4の幅の規則と§6の段の選択へ反映した（計画のTask 7R。根拠は計画の§1）。
 
 ## 1. 目的と承認範囲
 
-ユーザー依頼は「実装プランを作ってopusのレビューにかける」。このターンで行うのは設計、実施計画、レビューとその是正である。以下の実装・実験は実施計画であり、着手済みと扱わない。
+ユーザー依頼は「実装プランを作ってopusのレビューにかける」。2026-10-25時点の依頼範囲は計画・レビューまでで、行うのは設計、実施計画、レビューとその是正である。以下の実装・実験は実施計画であり、2026-10-25時点では着手済みと扱わなかった。実装は2026-10-26に始まった（現在の状態は冒頭の状態行にある）。
 
 目的は、市場データを用いず、American putのEuropean価格・早期行使プレミアム（EEP）・行使境界をローカルCPUで再現し、誤差と費用を独立な方法で評価すること。速度向上を採択条件にしない。
 
